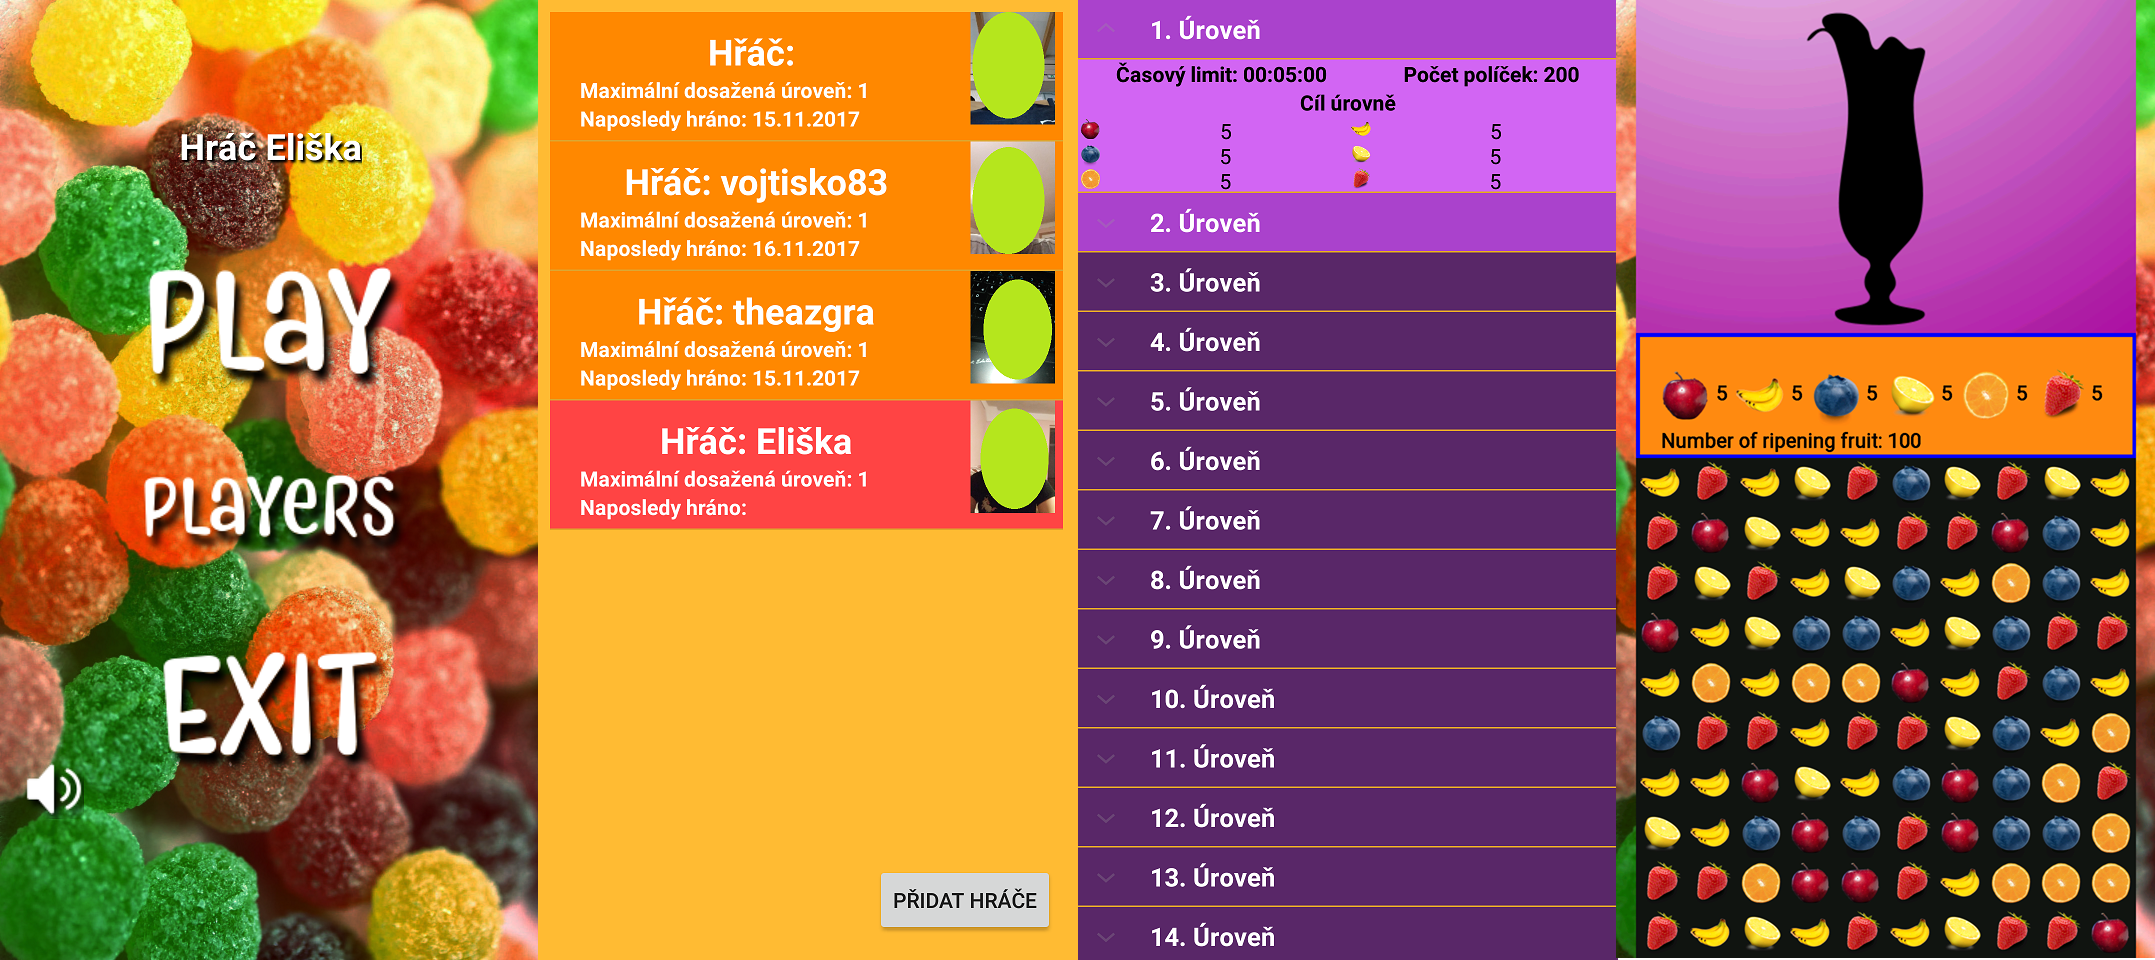
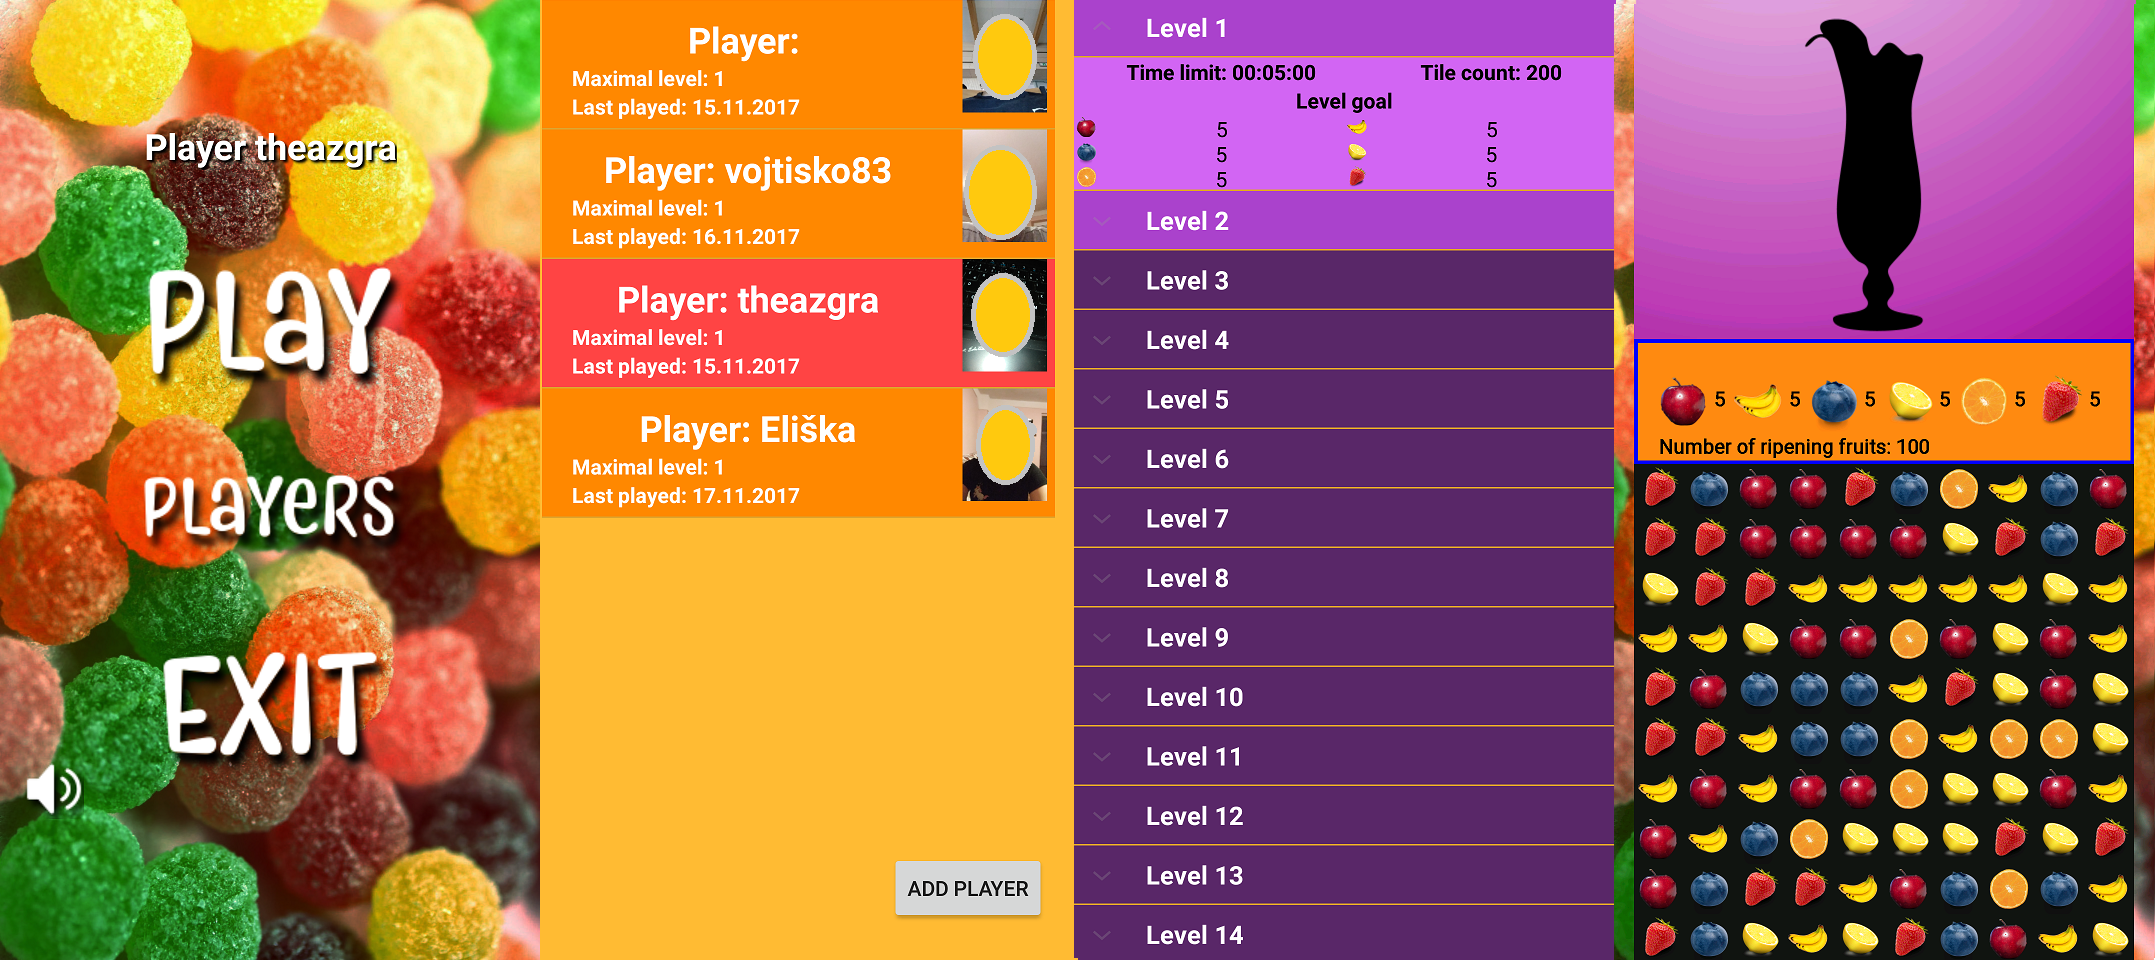
Fixed mix of english and czech labels

diff --git a/FruitMatcher/app/src/main/java/com/example/vojtch/fruitmatcher/MainActivity.java b/FruitMatcher/app/src/main/java/com/example/vojtch/fruitmatcher/MainActivity.java
@@ -121,7 +121,7 @@ public class MainActivity extends Activity {
 
         PlayerInfo player = ((FruitMatcherApp)this.getApplication()).getPlayerInfo();
         if (player != null){
-            lbPlayer.setText("Hráč " + player.getName());
+            lbPlayer.setText("Player " + player.getName());
         }
     }
 
@@ -140,7 +140,7 @@ public class MainActivity extends Activity {
     public void onPlayClick(View v){
         PlayerInfo player = ((FruitMatcherApp)this.getApplication()).getPlayerInfo();
         if (player == null){
-            Toast.makeText(this, "Není zvolen hráč", Toast.LENGTH_SHORT).show();
+            Toast.makeText(this, "No player is selected", Toast.LENGTH_SHORT).show();
             return;
         }
         Intent levelSelect = new Intent(this, LevelSelect.class);
@@ -149,16 +149,16 @@ public class MainActivity extends Activity {
 
     public void onExitClick(View v){
         AlertDialog.Builder builder = new AlertDialog.Builder(this);
-        builder.setTitle("Opravdu chcete ukončit aplikaci?");
+        builder.setTitle("Do you really want to exit?");
 
-        builder.setPositiveButton("Ano", new DialogInterface.OnClickListener() {
+        builder.setPositiveButton("Yes", new DialogInterface.OnClickListener() {
             @Override
             public void onClick(DialogInterface dialogInterface, int i) {
                 android.os.Process.killProcess(android.os.Process.myPid());
             }
         });
 
-        builder.setNegativeButton("Ne", new DialogInterface.OnClickListener() {
+        builder.setNegativeButton("No", new DialogInterface.OnClickListener() {
             @Override
             public void onClick(DialogInterface dialogInterface, int i) {
             }
@@ -199,7 +199,7 @@ public class MainActivity extends Activity {
 
             PlayerInfo player = ((FruitMatcherApp)this.getApplication()).getPlayerInfo();
             if (player != null){
-                lbPlayer.setText("Hráč " + player.getName());
+                lbPlayer.setText("Player " + player.getName());
             }
         }
     }

diff --git a/FruitMatcher/app/src/main/java/com/example/vojtch/fruitmatcher/GameEngine/Renderer.java b/FruitMatcher/app/src/main/java/com/example/vojtch/fruitmatcher/GameEngine/Renderer.java
@@ -1,7 +1,6 @@
 package com.example.vojtch.fruitmatcher.GameEngine;
 
 
-import android.content.Context;
 import android.content.res.Resources;
 import android.graphics.Bitmap;
 import android.graphics.Canvas;
@@ -10,7 +9,6 @@ import android.graphics.Paint;
 import android.graphics.Point;
 import android.graphics.Rect;
 import android.graphics.drawable.Drawable;
-import android.support.constraint.ConstraintLayout;
 import android.util.Log;
 
 import com.example.vojtch.fruitmatcher.Database.DatabaseEntity.LevelInfo;
@@ -18,8 +16,6 @@ import com.example.vojtch.fruitmatcher.R;
 
 import java.util.ArrayList;
 import java.util.Random;
-import java.util.concurrent.CompletionService;
-import java.util.logging.Level;
 
 public class Renderer {
 
@@ -203,7 +199,7 @@ public class Renderer {
                     (Constants.QUEST_PANEL_HEIGH/2) + 10.0f, this.textPaint);
         }
 
-        this.questCanvas.drawText("Number of ripening fruit: " + String.valueOf(levelInfo.getTileCount()),
+        this.questCanvas.drawText("Number of ripening fruits: " + String.valueOf(levelInfo.getTileCount()),
                 50, (Constants.QUEST_PANEL_HEIGH - 20.0f), this.textPaint);
     }
 

diff --git a/FruitMatcher/app/src/main/java/com/example/vojtch/fruitmatcher/LevelSelect.java b/FruitMatcher/app/src/main/java/com/example/vojtch/fruitmatcher/LevelSelect.java
@@ -87,7 +87,7 @@ public class LevelSelect extends Activity {
         List<LevelInfo> levels = db.getLevels();
 
         for (LevelInfo lvl : levels){
-            String lvlName = lvl.getLevelId() + ". Úroveň";
+            String lvlName = "Level " + String.valueOf(lvl.getLevelId());
             levelHeaders.add(lvlName);
             listDetail.put(lvlName, lvl);
         }
@@ -99,7 +99,7 @@ public class LevelSelect extends Activity {
 
     private void startLevel(LevelInfo level){
         if (level.getLevelId() > playerInfo.getMaxLevel() + 1){
-            Toast.makeText(this, "Nepřístupné", Toast.LENGTH_SHORT).show();
+            Toast.makeText(this, "Access denied", Toast.LENGTH_SHORT).show();
             return;
         }
         Intent gameActivity = new Intent(this, CanvasActivity.class);

diff --git a/FruitMatcher/app/src/main/java/com/example/vojtch/fruitmatcher/ExpandableLevelSelectAdapter.java b/FruitMatcher/app/src/main/java/com/example/vojtch/fruitmatcher/ExpandableLevelSelectAdapter.java
@@ -61,8 +61,8 @@ public class ExpandableLevelSelectAdapter extends BaseExpandableListAdapter {
         TextView orange = (TextView) convertView.findViewById(R.id.lbOrange);
         TextView strawberry = (TextView) convertView.findViewById(R.id.lbStrawberry);
 
-        timeLimit.setText("Časový limit: " + String.valueOf(lvl.getTimeLimit()));
-        tileLimit.setText("Počet políček: " + String.valueOf(lvl.getTileCount()));
+        timeLimit.setText("Time limit: " + String.valueOf(lvl.getTimeLimit()));
+        tileLimit.setText("Tile count: " + String.valueOf(lvl.getTileCount()));
         apple.setText(String.valueOf(lvl.getAppleCount()));
         banana.setText(String.valueOf(lvl.getBananaCount()));
         blueberry.setText(String.valueOf(lvl.getBlueberryCount()));

diff --git a/FruitMatcher/app/src/main/java/com/example/vojtch/fruitmatcher/PlayerAdapter.java b/FruitMatcher/app/src/main/java/com/example/vojtch/fruitmatcher/PlayerAdapter.java
@@ -61,9 +61,9 @@ public class PlayerAdapter extends ArrayAdapter<PlayerInfo> {
         }
 
         PlayerInfo playerInfo = players.get(position);
-        holder.lbName.setText("Hřáč: " + playerInfo.getName());
-        holder.lbMaxLevel.setText("Maximální dosažená úroveň: " + playerInfo.getMaxLevel());
-        holder.lbLastPlayed.setText("Naposledy hráno: " + playerInfo.getPlayed());
+        holder.lbName.setText("Player: " + playerInfo.getName());
+        holder.lbMaxLevel.setText("Maximal level: " + playerInfo.getMaxLevel());
+        holder.lbLastPlayed.setText("Last played: " + playerInfo.getPlayed());
         holder.playerImg.setImageBitmap(playerInfo.getPlayerImg());
 
 

diff --git a/FruitMatcher/app/src/main/java/com/example/vojtch/fruitmatcher/PlayerSelect.java b/FruitMatcher/app/src/main/java/com/example/vojtch/fruitmatcher/PlayerSelect.java
@@ -41,7 +41,7 @@ public class PlayerSelect extends Activity {
 
                 PlayerInfo player = (PlayerInfo)adapterView.getItemAtPosition(position);
                 ((FruitMatcherApp)getApplication()).setPlayerId(player.getId());
-                Toast.makeText(getApplicationContext(), "Zvolen hráč " + player.getName(), Toast.LENGTH_SHORT).show();
+                Toast.makeText(getApplicationContext(), "Selected player " + player.getName(), Toast.LENGTH_SHORT).show();
 
                 setResult(RESULT_OK);
                 finish();
